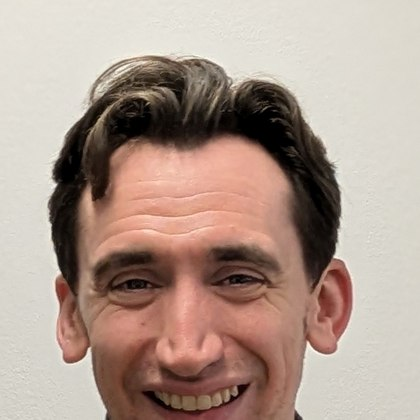
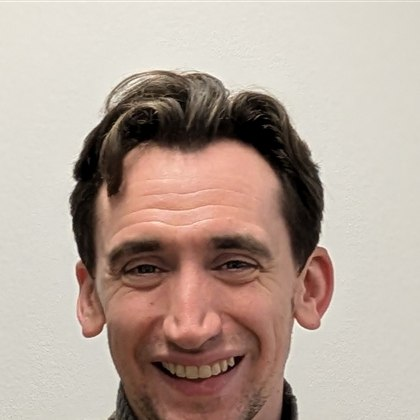
modified:   committee/Ben_Sulser_sq.jpg 	modified:   committee/Karolina_Wachala_sq.jpg 	new file:   committee/Zabdi_Lopez_sq.jpg 	modified:   index.html

diff --git a/index.html b/index.html
@@ -736,7 +736,7 @@
                 <p>Institute of Plant Sciences, University of Bern</p>
             </div>
             <div class="card">
-                <img class="avatar" src="committee/Zabdi_Lopez.png" alt="Zabdi Lopez">
+                <img class="avatar" src="committee/Zabdi_Lopez_sq.jpg" alt="Zabdi Lopez">
                 <h3>Zabdi Lopez</h3>
                 <p>Institute of Plant Sciences, University of Bern</p>
             </div>
